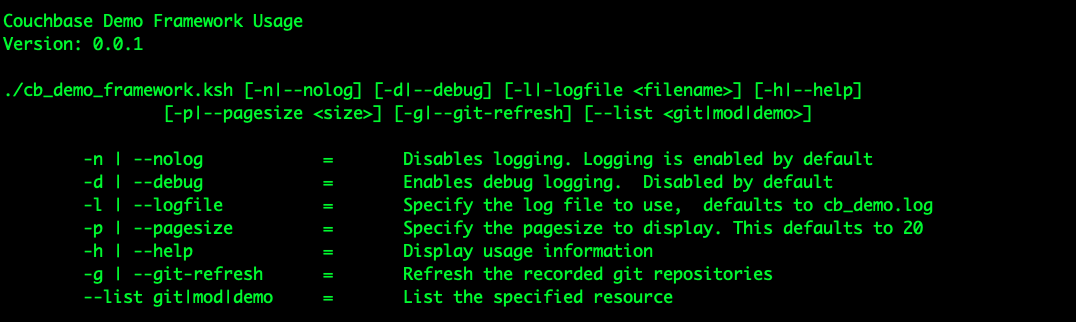
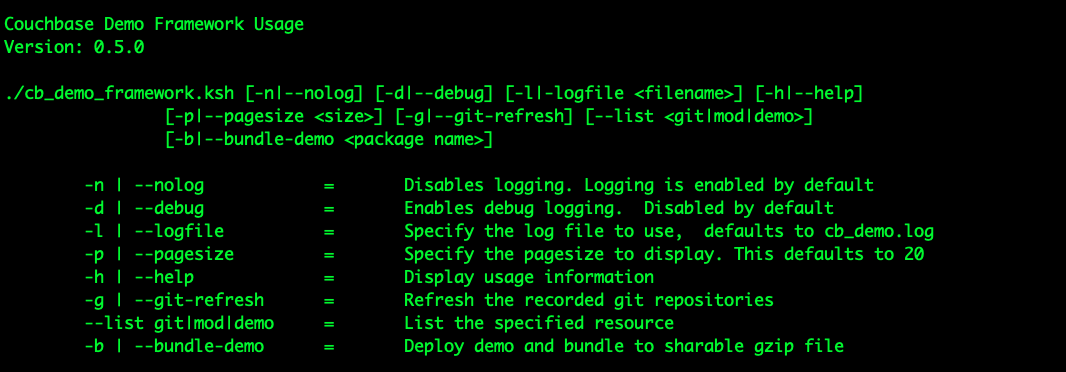
Added packaging of recorded demos

diff --git a/docs/quickstart.md b/docs/quickstart.md
@@ -1,0 +1,149 @@
+# Couchbase Demo Framework Quickstart Tutorial
+
+This tutorial will walk through a simple example of configuring two Couchbase clusters, loading some data into each cluster and creating some indexes through the **Couchbase Demo Framework**
+
+## Prerequisites
+
+You should have downloaded the **CB Demo Framework** and have a kubernetes cluster available.  This quickstart was recorded using Docker Kubernetes.
+
+## Setting up first cluster
+
+The first item we will perform with the **Couchbase Demo Cluster** is configuring our first Couchbase Cluster.
+
+* CD to the directory where you installed the CB Demo Framework
+* Run the command `./cb_demo_framework.ksh`
+
+You should see the following
+
+![screen](https://github.com/craig-kovar/cb-demo-framework/blob/master/docs/cb-demo-framework-screen.png)
+
+Using the **p** and **b** selections,  page through the list of available modules till you see **set_up_k8s.mod**.
+
+> set_up_k8s.mod is a helper module that runs the modules to create a namespace, deploy the Couchbase Admission Controller, Deploy the Administrator user credentials and Couchbase Autonomous Operator
+
+Select the corresponding value for **set_up_k8s.mod** and follow the onscreen prompts.  In most cases we can use the defaults.
+
+> For easy access to any intermediate files, select your work directory as **./work/couchbase**
+
+> Deploy all kubernetes resources into our newly created namespace **couchbase**
+
+We now have our namespace **couchbase** created with all the required resources available to deploy a couchbase cluster.  This means that the next step we should select is the module named **config_cb_cluster.mod**
+
+> For the working directory select **./work/couchbase**.
+
+> Configuring the Couchbase Cluster yaml we will select the defaults for most options.  A few ones to note through
+> * Do you want Operator to manage RBAC [y/n]: **Select n**
+> * Do you want to expose services and/or enable TLS [y/n]: **Select n**
+> * Enter the services [data|index|query|search|eventing|analytics] or q to stop: **This will repeat until q is selected. Select data, index, and query**
+> * Do you want to specify resource limits/requests [y/n]: **Select n**
+> * Specify a node selector [y/n]: **Select n**
+> * Configure another Couchbase Server [y/n]: **Select n**
+> * Should the operator manage buckets within this cluster [y/n]: **Select y**
+
+We have now generated our Couchbase Cluster yaml file.  Feel free to take a look at it, it will be located at _./work/couchbase/cb-cluster.yaml_ if you have followed along with the tutorial
+
+It is now time to deploy the cluster we just configured.  To do this we will select the module named **deploy_cb_cluster.mod**
+
+> Specify the working directory as **./work/couchbase**
+
+> Specify the namespace to deploy into as couchbase.
+>>  _Enter namespace to deploy into [default]: couchbase_
+
+ The Couchbase Cluster is deployed and the Operator is spinning up pods for our cluster.  However,  before we can load data or any other items we need to make sure that our cluster is ready.  In order to systematically check this there is a module named **wait_for_pods.mod**
+
+ > Select the namespace of **couchbase** and use defaults for all other values
+
+When this is complete you should see a Cluster is ready message as shown below
+
+![screen](https://github.com/craig-kovar/cb-demo-framework/blob/master/docs/cb-demo-framework-ready.png)
+
+At this point our cluster is now ready but we do not have any buckets configured, data loaded, or indexes created, so let's take care of that.
+
+## Create and deploy a bucket
+
+If you selected the Operator to manage buckets within your Couchbase Cluster you need to configure and deploy a couchbasebucket resource into your namespace.  We will use a module named **config_bucket_and_deploy.mod** to configure our bucket and deploy it into our **couchbase** namespace
+
+> We will leave everything else as default except a few prompts as shown
+> * Enter working directory [./work]: **./work/couchbase**
+> * Enter namespace where cluster is located [default]: **couchbase**
+> * Enter bucket name [default]: **test**
+
+This will alert the Operator that a bucket should be created in our **cb-example** cluster.
+
+## Loading data into test bucket
+
+There are a couple of small data files packaged with the CB Demo Framework that you can use to test loading data in either csv or json formats using the cbimport tool.
+
+In this cluster we will load the json data.  To do that we will now select a module named **load_json_file.mod** and enter the following input for the prompts
+
+> * Enter data location you want to load (Local path) []: **./artifacts/data**
+> * Enter data file you want to load (Local file) []: **test.json**
+> * Enter namespace of your cluster [default]: **couchbase**
+> * Enter name of the pod to load to [cb-example-0]: _use default here_ or **cb-example**
+> * Enter bucket name [default]: **test**
+> * Enter username [Administrator]: _use default here_ or **Administrator**
+> * Enter password [password]: _use default here_ or **password**
+> * Enter key generation pattern (#MONO_INC#, #UUID#, %attribute%, etc...); enclose in '' ['#UUID#']: _use default here_ or **'#UUID#'**
+> * Enter the number of threads [1]: **1**
+> * Enter the format of the dataset (lines, list) [lines]: **lines**
+
+You should see a message showing how many documents were loaded and how many failed as shown
+
+![load](https://github.com/craig-kovar/cb-demo-framework/blob/master/docs/cb-demo-framework-load.png)
+
+## Create indexes
+
+Couchbase provides a utility called CBQ which is a shell utility that allows you to execute N1QL statements.  The framework provides two options to take advantage of this, which is running a single query or providing a file with a series of queries to execute.
+
+In this tutorial we will use the second option to create two indexes.
+
+Run the module named **cbq_file.mod** and enter the following values when prompted
+
+> * Enter data location you want to load (Local path) []: **./artifacts/data**
+> * Enter data file you want to load (Local file) []: **test_query.txt**
+> * Enter namespace of your cluster [default]: **couchbase**
+> * Enter name of the pod to load to [cb-example-0]: _use default here_ or **cb-example**
+> * Enter username [Administrator]: _use default here_ or **Administrator**
+> * Enter password [password]: _use default here_ or **password**
+
+You should see the statements being executed and the results from each statement
+
+![cbq](https://github.com/craig-kovar/cb-demo-framework/blob/master/docs/cb-demo-framework-cbq.png)
+
+## Exposing admin console
+
+Great we now have a Couchbase cluster deployed with some data loaded into a bucket and some indexes created.  The next step is to access the admin console.  Since we are using kubernetes we need to use port-forwarding to access the console in this example.  
+
+> **Exposing services is beyond the scope of this tutorial**
+
+In order to expose the admin console we will run a module named **port_forward_pod.mod**
+
+> Use the defaults for all prompts except namespace.  Set namespace to **couchbase**
+
+At this point, open your favorite browser and go to localhost:8091.  Log in with the credentials Administrator/password.  You should see one bucket with 2 documents loaded.
+
+![adminui](https://github.com/craig-kovar/cb-demo-framework/blob/master/docs/cb-demo-framework-adminui.png)
+
+## Setting up second cluster
+
+For the first cluster we used the set_up_k8s module.  However,  that creates certain cluster level objects we do not need to recreate.  So we will set up our second namespace by hand running the following modules (in order).
+
+> As an exercise try and run the following modules to create and prepare a namespace named **xdcr**
+
+* **build_ns.mod**
+* **deploy_administrator_defaults.mod**
+* **deploy_cb_operator.mod**
+
+We will re-use the couchbase-cluster.yaml file we created earlier in the tutorial but instead this time deploying it to our xdcr namespace. To deploy this cluster we will re-run the module **deploy_cb_cluster.mod**, so let's do that.
+
+> **It is important to note that while we are deploying to xdcr the work directory we will be using for this is actually ./work/couchbase**
+
+## Creating bucket on secondary cluster
+
+Using the workspace of **./work/xdcr** and the namespace **xdcr** repeat the steps we performed in [Create and deploy a bucket](#create-and-deploy-a-bucket)
+
+## Exposing the admin ui on secondary cluster
+
+We will expose the admin cluster ui on the secondary cluster the same way that we did from the primary cluster.  However,  in this instance we need to use the namespace **xdcr** and **the local port should be different from 8091 (as that is being used by primary cluster)**.  Please refer to the section [Exposing admin console](#exposing-admin-console) for reference on how to expose the Admin Console.
+
+After this the secondary cluster can now be accessed at localhost:<port> where the port is the local port you chose when executing the port-forward module.

diff --git a/docs/using_cb_framework.md b/docs/using_cb_framework.md
@@ -5,6 +5,21 @@ The Couchbase Demo Framework is designed to operate in two modules
 * Interactive
 * recording
 
+Please refer to the following sections for more detail
+
+<!-- TOC START min:2 max:6 link:true asterisk:false update:true -->
+- [Interactive](#interactive)
+- [Recording mode](#recording-mode)
+- [Toggling modes](#toggling-modes)
+  - [First time enabling recording mode](#first-time-enabling-recording-mode)
+- [Templating, Setting, and Viewing variables](#templating-setting-and-viewing-variables)
+  - [Manually setting a variable](#manually-setting-a-variable)
+  - [Viewing the known variables](#viewing-the-known-variables)
+- [Replaying a demo](#replaying-a-demo)
+- [Bundling a demo for distribution](#bundling-a-demo-for-distribution)
+<!-- TOC END -->
+
+
 ## Interactive
 
 In the interactive mode you are able to execute different modules, follow the on-screen prompts and generally play around with steps.
@@ -58,3 +73,19 @@ This will prompt you for the variable name and value
 You can alternatively view the list of known variables by selecting **'v'**.  This will list all known variables and values
 
 ![variables](https://github.com/craig-kovar/cb-demo-framework/blob/master/docs/cb-demo-framework-variables.png)
+
+## Replaying a demo
+
+After you have recorded a demo, you can now replay the demo on demand.  The Couchbase Demo Framework manages two lists to display, **MODULES** for interactive and/or recording mode and **DEMOS** to replay recorded demos.  To switch between the two display modes simple select the **'d'** option.  Once you are on the **demo** screen simply select the demo to run.
+
+**NOTE - As noted recording mode will capture the user input except for a few noted exceptions [_config_cb_cluster.mod_, _config_secret.mod_ ].  The generated yaml output files will still be available however, so best practice is to turn off recording when running these modules and turn back on afterwards.**
+
+## Bundling a demo for distribution
+
+The Couchbase Demo Framework allows you to additionally bundle a demo into a sharable gzip file using the argument **-b** when launching the tool.
+
+`./cb_demo_framework.ksh -b <tar file name>`
+
+This will deploy the demo locally and capture the artifacts into the specified tar file during execution. You additionally have the ability to manually add any files to the bundled demo.  However,  please note that setting the **-b** flag will not allow you to run any modules and only configured demos.
+
+![bundle](https://github.com/craig-kovar/cb-demo-framework/blob/master/docs/cb-demo-framework-bundle.png)

diff --git a/README.md b/README.md
@@ -6,7 +6,9 @@ Please refer to the following links on how to install, use and extend the CB Dem
 
 [Install and Run CB Demo Framework](./docs/install_and_run.md)
 
-[Use the Couchbase Demo Framework](./docs/using_cb_framework.md)
+[Using the Couchbase Demo Framework](./docs/using_cb_framework.md)
+
+[Quickstart](./docs/quickstart.md)
 
 [List of configured modules](./docs/module_list.md)
 
